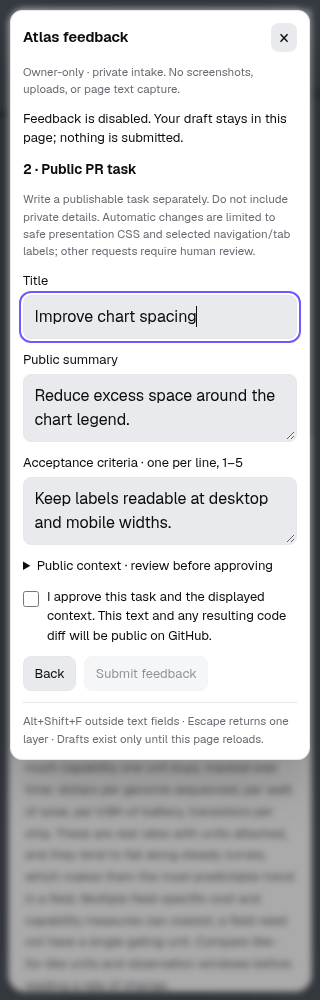
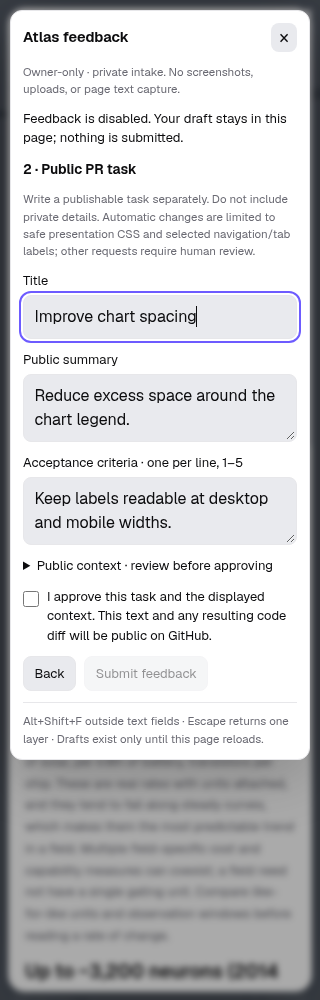
test: refresh feedback evidence on merged chart-action base

diff --git a/docs/feedback.md b/docs/feedback.md
@@ -21,7 +21,7 @@ Closing preserves the draft in page memory; reloading loses an unsent draft and 
 - Fixed automated validation runs tests, typecheck and build. **Model-driven browser reproduction and automated before/after screenshots are not implemented.** Native browser evidence in this PR was produced by the implementation owner, not by the feedback worker.
 - **No deployment/merge status collector yet.** `pr_ready` is the automatic terminal success state. Vercel may attach its ordinary preview to the PR, but this code does not claim a verified preview, Merged or Live. Those DTO fields are withheld without a separately reviewed exact-project evidence collector.
 - New approved follow-ups preserve verified earlier changes and update the same draft/branch, with cumulative validation and a fresh signed receipt. Partial publication, stale/unverifiable history and merged/live follow-ups park for human review before another model request. Earlier receipt expiry is never reused as new execution authority.
-- Failed/ambiguous requests remain saved with a safe status. Unknown model billing retains the worst-case reservation. No invented PR, preview or successful fix is returned.
+- Failed/ambiguous requests remain saved with a safe status; the worker does not generate an automated clarification dialogue in v1. Unknown model billing retains the worst-case reservation. No invented PR, preview or successful fix is returned.
 
 These are explicit differences from the broader proposal, not a claim that unrestricted artifact-style repair or live activation is finished.
 

diff --git a/docs/qa/feedback/README.md b/docs/qa/feedback/README.md
@@ -1,6 +1,6 @@
 # Feedback native QA
 
-Runtime source: `3011bbd8cc3e7e826117b478e18ebaf78cc1983c`.
+Runtime source: `c73ba658489602e018b0cbf7322dcfe4edb67693`.
 
 Captures are from a **disposable loopback-only Next production build**, mounted at `/neuro-atlas`, with only its authentication proxy replaced by a private raw-Host/runtime-flag-guarded fixture. That fixture is not part of this PR and must never be pushed/deployed. The real source gate, scientific data, chart ordering and Next hosting configuration are unchanged.
 
